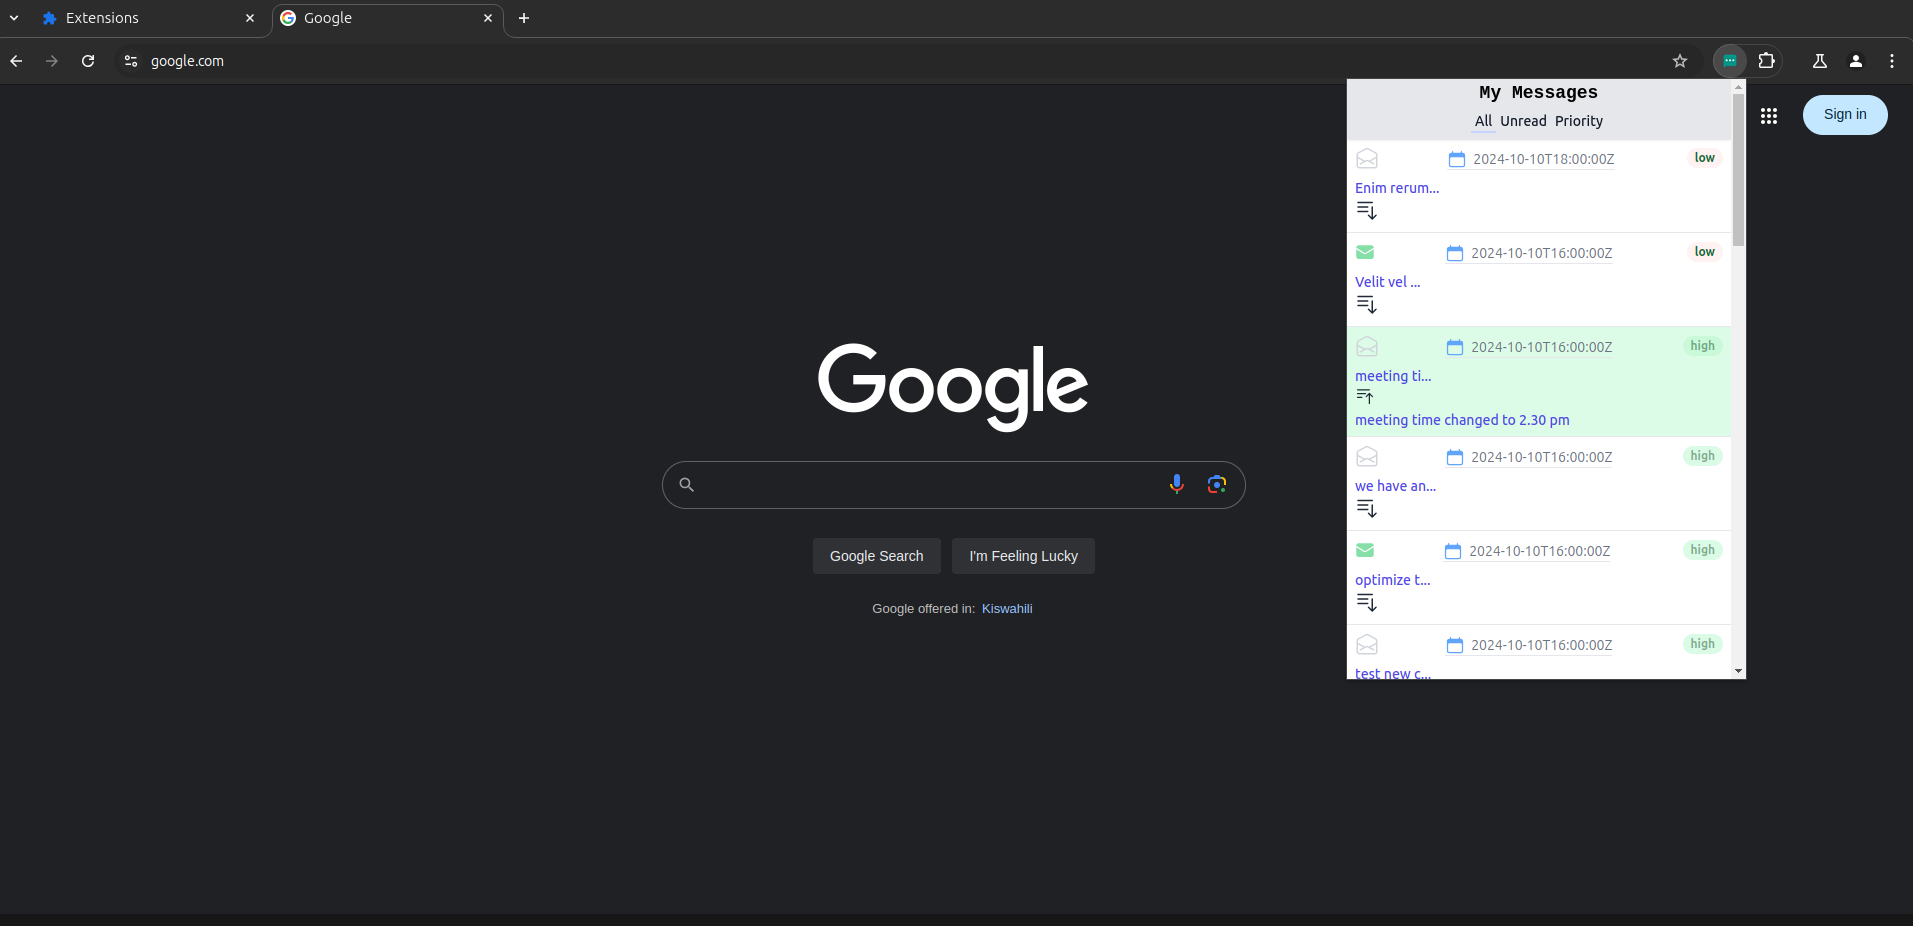
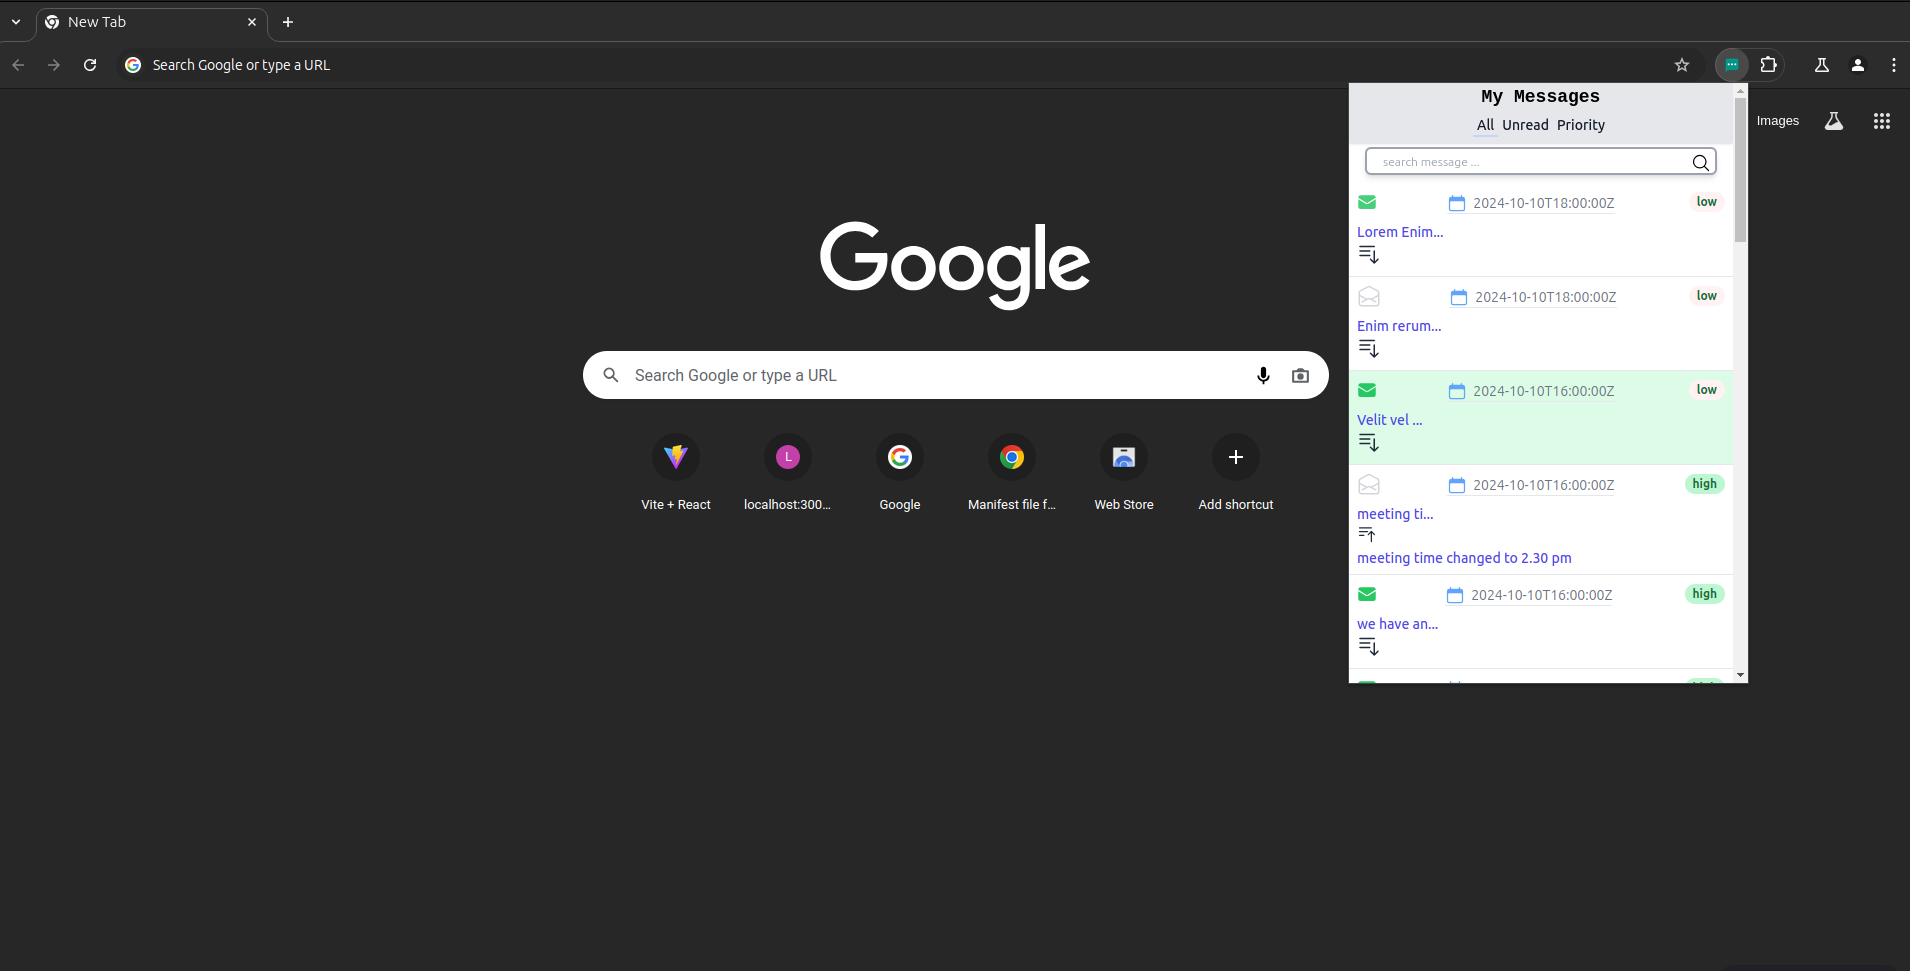
update readme

diff --git a/src/components/Search.jsx b/src/components/Search.jsx
@@ -1,6 +1,6 @@
 export default function Search({messageDispatch}) {
     return (
-        <div className="mx-4 mb-2">
+        <div className="sticky top-14 z-40 mx-4 mb-2">
             <div className="relative mt-1 flex items-center">
             <input
                 onChange={(e) =>

diff --git a/README.md b/README.md
@@ -34,10 +34,7 @@
 - Handles different states: loading, error, no messages, unread messages
 
 
-## screenshot
-
-#### main
-![](public/images/img1.png)
+## screenshots
 
 #### All messages
 ![](public/images/img2.png)
@@ -50,6 +47,11 @@
 
 #### Notifications badge
 ![](public/images/img5.png)
+
+#### Search
+![](public/images/img6.png)
+
+
 
 
 #### npm test or yarn test
